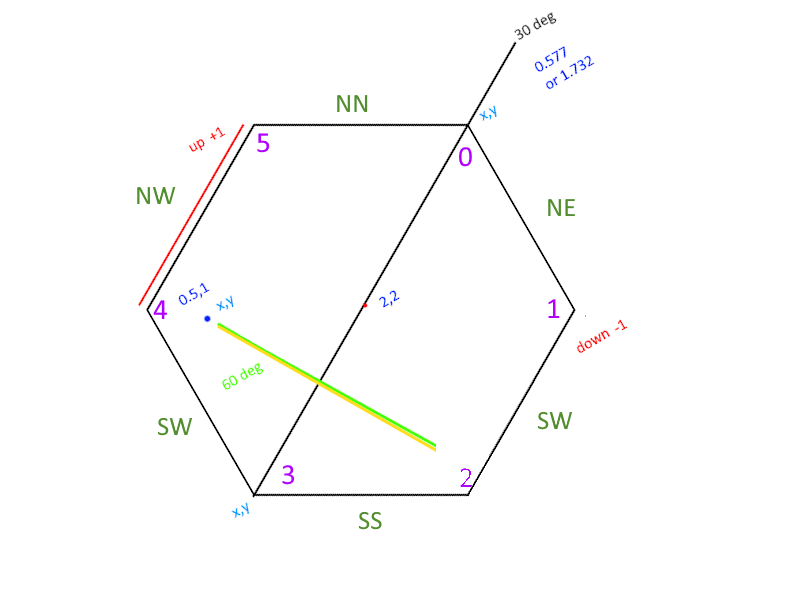
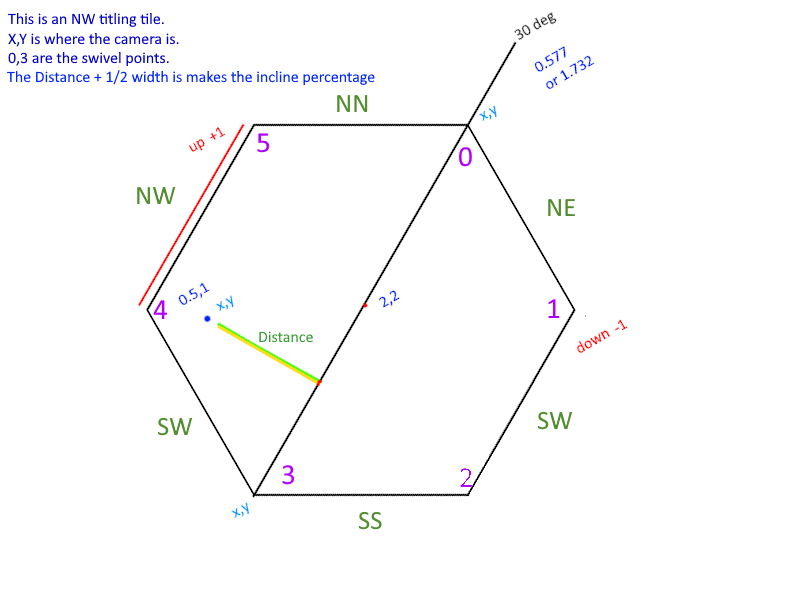
better hex image explanation

diff --git a/src/tiles/walkway-heights.js b/src/tiles/walkway-heights.js
@@ -2,6 +2,41 @@ import { X_INDX, Y_INDX, Z_INDX, N_N, S_S, N_W, N_E, S_E, S_W } from "../constan
 
 const ABOVE_WALKWAY = 0.52; // Base offset for camera height above surface
 
+function swivelIntercept(cam_x_z, swivel_a, swivel_b) {
+    let [cam_x, cam_z] = cam_x_z;
+    let x1 = swivel_a[X_INDX];
+    let z1 = swivel_a[Z_INDX];
+    let x2 = swivel_b[X_INDX];
+    let z2 = swivel_b[Z_INDX];
+    let dx = x2 - x1;
+    let dz = z2 - z1;
+    let dAB = dx * dx + dz * dz;
+    let u_top = (cam_x - x1) * dx + (cam_z - z1) * dz;
+    let u = u_top / dAB;
+    let x = x1 + u * dx;
+    let z = z1 + u * dz;
+    let swivel_intercept = [x, z];
+    return swivel_intercept;
+}
+
+function intercept2cam(cam_x_z, swivel_intercept) {
+    let [cam_x, cam_z] = cam_x_z;
+    let x_diff = cam_x - swivel_intercept[0];
+    let z_diff = cam_z - swivel_intercept[1];
+    let length_from_swivel = Math.sqrt(x_diff * x_diff + z_diff * z_diff);
+    return length_from_swivel;
+}
+
+function dotsSideOfLine(cam_x_z, line_point_a, line_point_b) {
+    let [cam_x, cam_z] = cam_x_z;
+    const nw_x1 = line_point_a[0];
+    const nw_z1 = line_point_a[2];
+    const nw_x2 = line_point_b[0];
+    const nw_z2 = line_point_b[2];
+    const pos_or_neg = (cam_x - nw_x1) * (nw_z2 - nw_z1) - (cam_z - nw_z1) * (nw_x2 - nw_x1);
+    return pos_or_neg;
+}
+
 function inclineNW_NE_SE_SW(cam_pos, stair_tile, swivel_a, swivel_b) {
     const { tilt_up, accross_length, angle_incline, y_position } = stair_tile;
     const cam_x_z = [cam_pos.x, cam_pos.z];
@@ -59,41 +94,6 @@ function walkwayIncline(cam_pos, stair_tile) {
         return inclineNN_SS(cam_pos, stair_tile);
     }
     return y_position + ABOVE_WALKWAY;
-}
-
-function dotsSideOfLine(cam_x_z, line_point_a, line_point_b) {
-    let [cam_x, cam_z] = cam_x_z;
-    const nw_x1 = line_point_a[0];
-    const nw_z1 = line_point_a[2];
-    const nw_x2 = line_point_b[0];
-    const nw_z2 = line_point_b[2];
-    const pos_or_neg = (cam_x - nw_x1) * (nw_z2 - nw_z1) - (cam_z - nw_z1) * (nw_x2 - nw_x1);
-    return pos_or_neg;
-}
-
-function intercept2cam(cam_x_z, swivel_intercept) {
-    let [cam_x, cam_z] = cam_x_z;
-    let x_diff = cam_x - swivel_intercept[0];
-    let z_diff = cam_z - swivel_intercept[1];
-    let length_from_swivel = Math.sqrt(x_diff * x_diff + z_diff * z_diff);
-    return length_from_swivel;
-}
-
-function swivelIntercept(cam_x_z, swivel_a, swivel_b) {
-    let [cam_x, cam_z] = cam_x_z;
-    let x1 = swivel_a[X_INDX];
-    let z1 = swivel_a[Z_INDX];
-    let x2 = swivel_b[X_INDX];
-    let z2 = swivel_b[Z_INDX];
-    let dx = x2 - x1;
-    let dz = z2 - z1;
-    let dAB = dx * dx + dz * dz;
-    let u_top = (cam_x - x1) * dx + (cam_z - z1) * dz;
-    let u = u_top / dAB;
-    let x = x1 + u * dx;
-    let z = z1 + u * dz;
-    let swivel_intercept = [x, z];
-    return swivel_intercept;
 }
 
 export { walkwayIncline };

diff --git a/src/tiles/hex-tile.js b/src/tiles/hex-tile.js
@@ -18,16 +18,15 @@ import { X_INDX, Y_INDX, Z_INDX, N_N, S_S, N_W, N_E, S_E, S_W, FLAT } from "../c
 /*
  ----------------RED-X-LINE------------------------
 |
-|            nn
+|            n_n
 |         /--------\
-|    nw /          \ n_e
+|     n_w/          \ n_e
 |       /            \
 |       \            /
-|    sw \          / se     
+|     s_w\          / s_e     
 |         \--------/
-|             ss
+|             s_s
 |
-
 */
 
 import { geoMesh, addCoords } from "./mesh-tiles.js";
@@ -120,9 +119,6 @@ function offsetTilePoints(stair_tiles, x_y_z, incline_and_dir, tile_points) {
     return stair_tiles;
 }
 
-//      camPoint3d / gridIndex2d
-//
-//  tileCenterCamPoint3d()
 function tileCenterCoord(x_tile, z_tile) {
     const x_coord = (3 / 2) * x_tile;
     const z_coord = (sqrt_3 / 2) * x_tile + sqrt_3 * z_tile;
